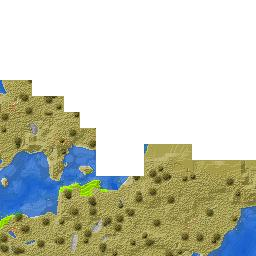
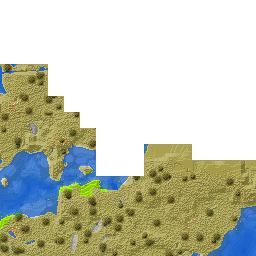
update

Changed region(s): [[0.0, 0.25, 0.1875, 0.375]]

diff --git a/unmined.map.regions.js b/unmined.map.regions.js
@@ -1,6 +1,6 @@
 var UnminedRegions = [
-{ x: 0, z: 0, m: new Uint32Array([3,3,0,0,0,0,0,0,0,0,0,0,0,0,0,0,0,0,0,0,0,0,0,0,0,0,0,0,0,0,0,0,0,0,0,0,0,0,0,0,0,0,0,0,0,0,0,0,0,0,0,0,0,0,0,0,0,0,0,0,0,0,0,0,0,0,0,0,0,0,0,0,0,0,0,0,0,0,0,0,0,0,0,0,0,0,0,0,0,0,0,0,0,0,0,0,0,0,0,0,0,0,0,0,0,0,0,0,0,0,0,0,0,0,0,0,0,0,0,0,0,0,0,0,0,0,0,0,0,0,0,0,0,0,0,0,0,0,0,0,0,0,0,0,0,0,0,0,0,0,0,0,0,0,0,0,0,0,0,0,0,0,0,0,0,0,0,0,0,0,0,0,0,0,0,0,0,0,0,0,0,0,0,0,0,0,0,0,0,0,0,0,0,0,0,0,0,0,0,0,0,0,0,0,0,0,0,0,0,0,0,0,0,0,0,0,0,0,0,0,0,0,0,0,0,0,0,0,0,0,0,0,0,0,0,0,0,0,0,0,0,0,0,0,0,0,0,0,0,0,0,0,0,0,0,0]) },
-{ x: 0, z: -1, m: new Uint32Array([0,0,0,0,0,0,0,0,0,0,0,0,0,0,0,0,0,0,0,0,0,0,0,0,0,0,0,0,0,0,0,3,0,0,0,0,0,0,0,0,0,0,0,0,0,0,0,0,0,0,0,0,0,0,0,0,0,0,0,0,0,0,0,0,0,0,0,0,0,0,0,0,0,0,0,0,0,0,0,0,0,0,0,0,0,0,0,0,0,0,0,0,0,0,0,0,0,0,0,0,0,0,0,0,0,0,0,0,0,0,0,0,0,0,0,0,0,0,0,0,0,0,0,0,0,0,0,0,0,0,0,0,0,0,0,0,0,0,0,0,0,0,0,0,0,0,0,0,0,0,0,0,0,0,0,0,0,0,0,0,0,0,0,0,0,0,0,0,0,0,0,0,0,0,0,0,0,0,0,0,0,0,0,0,0,0,0,0,0,0,0,0,0,0,0,0,0,0,0,0,0,0,0,0,0,0,0,0,0,0,0,0,0,0,0,0,0,0,0,0,0,0,0,0,0,0,0,0,0,0,0,0,0,0,0,0,0,0,0,0,0,0,0,0,0,0,0,0,0,0,0,0,0,0,0,0]) },
+{ x: 0, z: 0, m: new Uint32Array([1572867,3,0,0,0,0,0,0,0,0,0,0,0,0,0,0,0,0,0,0,0,0,0,0,0,0,0,0,0,0,0,0,0,0,0,0,0,0,0,0,0,0,0,0,0,0,0,0,0,0,0,0,0,0,0,0,0,0,0,0,0,0,0,0,0,0,0,0,0,0,0,0,0,0,0,0,0,0,0,0,0,0,0,0,0,0,0,0,0,0,0,0,0,0,0,0,0,0,0,0,0,0,0,0,0,0,0,0,0,0,0,0,0,0,0,0,0,0,0,0,0,0,0,0,0,0,0,0,0,0,0,0,0,0,0,0,0,0,0,0,0,0,0,0,0,0,0,0,0,0,0,0,0,0,0,0,0,0,0,0,0,0,0,0,0,0,0,0,0,0,0,0,0,0,0,0,0,0,0,0,0,0,0,0,0,0,0,0,0,0,0,0,0,0,0,0,0,0,0,0,0,0,0,0,0,0,0,0,0,0,0,0,0,0,0,0,0,0,0,0,0,0,0,0,0,0,0,0,0,0,0,0,0,0,0,0,0,0,0,0,0,0,0,0,0,0,0,0,0,0,0,0,0,0,0,0]) },
+{ x: 0, z: -1, m: new Uint32Array([0,0,0,0,0,0,0,0,0,0,0,0,0,0,0,0,0,0,0,0,0,0,0,0,0,0,0,0,0,0,0,1572867,0,0,0,0,0,0,0,0,0,0,0,0,0,0,0,0,0,0,0,0,0,0,0,0,0,0,0,0,0,0,0,0,0,0,0,0,0,0,0,0,0,0,0,0,0,0,0,0,0,0,0,0,0,0,0,0,0,0,0,0,0,0,0,0,0,0,0,0,0,0,0,0,0,0,0,0,0,0,0,0,0,0,0,0,0,0,0,0,0,0,0,0,0,0,0,0,0,0,0,0,0,0,0,0,0,0,0,0,0,0,0,0,0,0,0,0,0,0,0,0,0,0,0,0,0,0,0,0,0,0,0,0,0,0,0,0,0,0,0,0,0,0,0,0,0,0,0,0,0,0,0,0,0,0,0,0,0,0,0,0,0,0,0,0,0,0,0,0,0,0,0,0,0,0,0,0,0,0,0,0,0,0,0,0,0,0,0,0,0,0,0,0,0,0,0,0,0,0,0,0,0,0,0,0,0,0,0,0,0,0,0,0,0,0,0,0,0,0,0,0,0,0,0,0]) },
 { x: -1, z: -1, m: new Uint32Array([0,0,0,0,0,0,0,0,0,0,0,0,0,0,0,0,0,0,0,0,0,0,0,0,0,0,0,0,0,0,0,2147483648,0,0,0,0,0,0,0,0,0,0,0,0,0,0,0,0,0,0,0,0,0,0,0,0,0,0,0,0,0,0,0,0,0,0,0,0,0,0,0,0,0,0,0,0,0,0,0,0,0,0,0,0,0,0,0,0,0,0,0,0,0,0,0,0,0,0,0,0,0,0,0,0,0,0,0,0,0,0,0,0,0,0,0,0,0,0,0,0,0,0,0,0,0,0,0,0,0,0,0,0,0,0,0,0,0,0,0,0,0,0,0,0,0,0,0,0,0,0,0,0,0,0,0,0,0,0,0,0,0,0,0,0,0,0,0,0,0,0,0,0,0,0,0,0,0,0,0,0,0,0,0,0,0,0,0,0,0,0,0,0,0,0,0,0,0,0,0,0,0,0,0,0,0,0,0,0,0,0,0,0,0,0,0,0,0,0,0,0,0,0,0,0,0,0,0,0,0,0,0,0,0,0,0,0,0,0,0,0,0,0,0,0,0,0,0,0,0,0,0,0,0,0,0,0]) },
 { x: -1, z: 0, m: new Uint32Array([2147483648,2147483648,0,0,0,0,0,0,0,0,0,0,0,0,0,0,0,0,0,0,0,0,0,0,0,0,0,0,0,0,0,0,0,0,0,0,0,0,0,0,0,0,0,0,0,0,0,0,0,0,0,0,0,0,0,0,0,0,0,0,0,0,0,0,0,0,0,0,0,0,0,0,0,0,0,0,0,0,0,0,0,0,0,0,0,0,0,0,0,0,0,0,0,0,0,0,0,0,0,0,0,0,0,0,0,0,0,0,0,0,0,0,0,0,0,0,0,0,0,0,0,0,0,0,0,0,0,0,0,0,0,0,0,0,0,0,0,0,0,0,0,0,0,0,0,0,0,0,0,0,0,0,0,0,0,0,0,0,0,0,0,0,0,0,0,0,0,0,0,0,0,0,0,0,0,0,0,0,0,0,0,0,0,0,0,0,0,0,0,0,0,0,0,0,0,0,0,0,0,0,0,0,0,0,0,0,0,0,0,0,0,0,0,0,0,0,0,0,0,0,0,0,0,0,0,0,0,0,0,0,0,0,0,0,0,0,0,0,0,0,0,0,0,0,0,0,0,0,0,0,0,0,0,0,0,0]) },
 ];

diff --git a/unmined.map.properties.js b/unmined.map.properties.js
@@ -6,7 +6,7 @@ var UnminedMapProperties = {
     imageFormat: "jpeg",
     minRegionX: -1,
     minRegionZ: -1,
-    maxRegionX: 1,
+    maxRegionX: 20,
     maxRegionZ: 1,
     worldName: "world",
     background: "",
